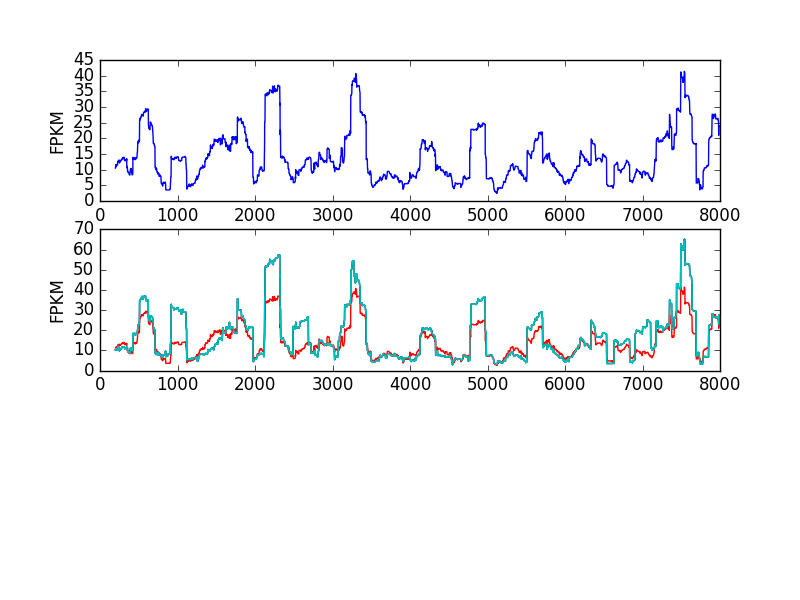
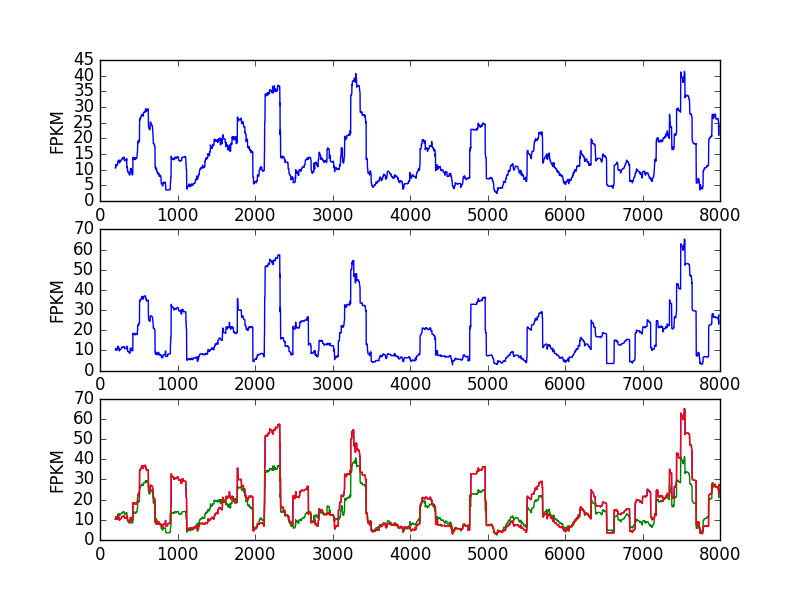
day4 lunch1

diff --git a/day4-lunch/day4-lunch2.py b/day4-lunch/day4-lunch2.py
@@ -42,7 +42,7 @@ for chromesome_selected in chromesome:
 	plt.subplot(3, 1, 2)
 	plt.plot(smoothed_2, label=title2)
 	plt.ylabel("FPKM")
-	plt.subplot(3, 1, 2)
+	plt.subplot(3, 1, 3)
 	plt.plot(smoothed_2, label="merged")
 	plt.ylabel("FPKM")
 	plt.plot(smoothed_1)
